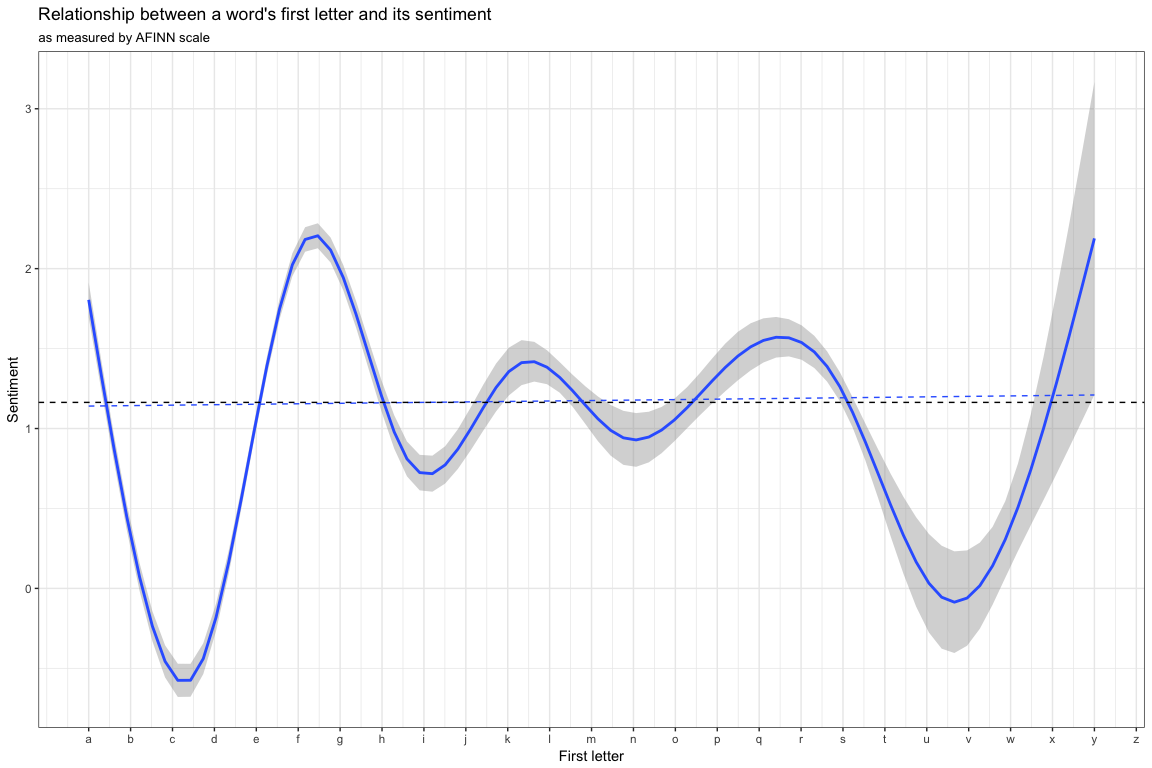
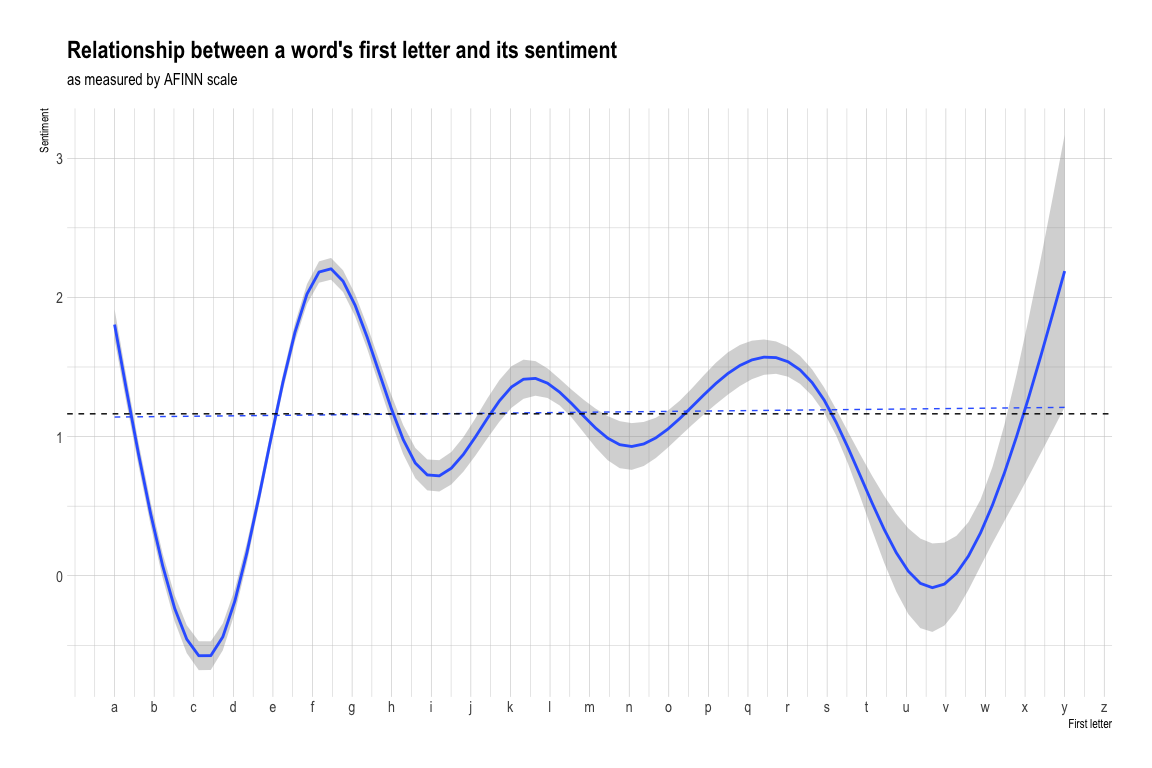
use hrbrthemes

diff --git a/analysis.md b/analysis.md
@@ -28,6 +28,7 @@ library(knitr)
 library(dobtools)
 library(tidytext)
 library(kableExtra)
+library(hrbrthemes)
 ```
 
 
@@ -1687,6 +1688,8 @@ Words with more positive sentiments tend to occur in more positive opinion units
 
 <br>
 
+Indeed on inspection it looks like the Negative distribution is heavier on the lower word sentiment side of the spectrum.
+
 As a control, we can check whether words that appear at the beginning of the alphabet tend to get higher sentiment scores. (I don't know of a reason to suspect this might be the case which is why I'm treating it as a control but maybe there is a psycholinguist out there who can set me straight?)
 
 We'll extract just the first letter of the word and assign it the number of the alphabet from 1 to 24.
@@ -1727,7 +1730,7 @@ And then plot the word's sentiment as scored on the `AFINN` scale. The black das
 
 
 
-(In case you're curious, the statistical relationship isn't significant either, as we'd expect, *b = 0.04, p = 0.34*.)
+(In case you're curious, the statistical relationship isn't significant either in a linear model, as we'd expect (*b = 0.04, p = 0.34*).)
 
 
 <br>
@@ -1736,7 +1739,9 @@ And then plot the word's sentiment as scored on the `AFINN` scale. The black das
 
 
 
-We might be interested in phrases that follow specific words like "use" or "don't use". Here we ask for everything after `word` and up until the first period.
+If we're going to dive into text data let's really dive into text data and let the users complete our sentences for us. To get super granular, we can comb through reviews for specific words that might be part of a telling sentence and pluck out the phrases that follow those words. This affords us almost a question and answer session between us and the reviewers. We ask what they <blank> and they tell us, in their own words.
+
+In our `search_for` function below, we ask for the all text of a review's content after `word` and up until the first period.
 
 We might also want to pull out a category or categories if they exist in the phrase. To that end we'll make a regex for all of the categories MonkeyLearn has identified (except Other which seems uninteresting):
  
@@ -1750,7 +1755,7 @@ category_reg <-
 ```
 
 
-We can make something reusable like:
+We can make something reusable like this. 
 
 
 ```r
